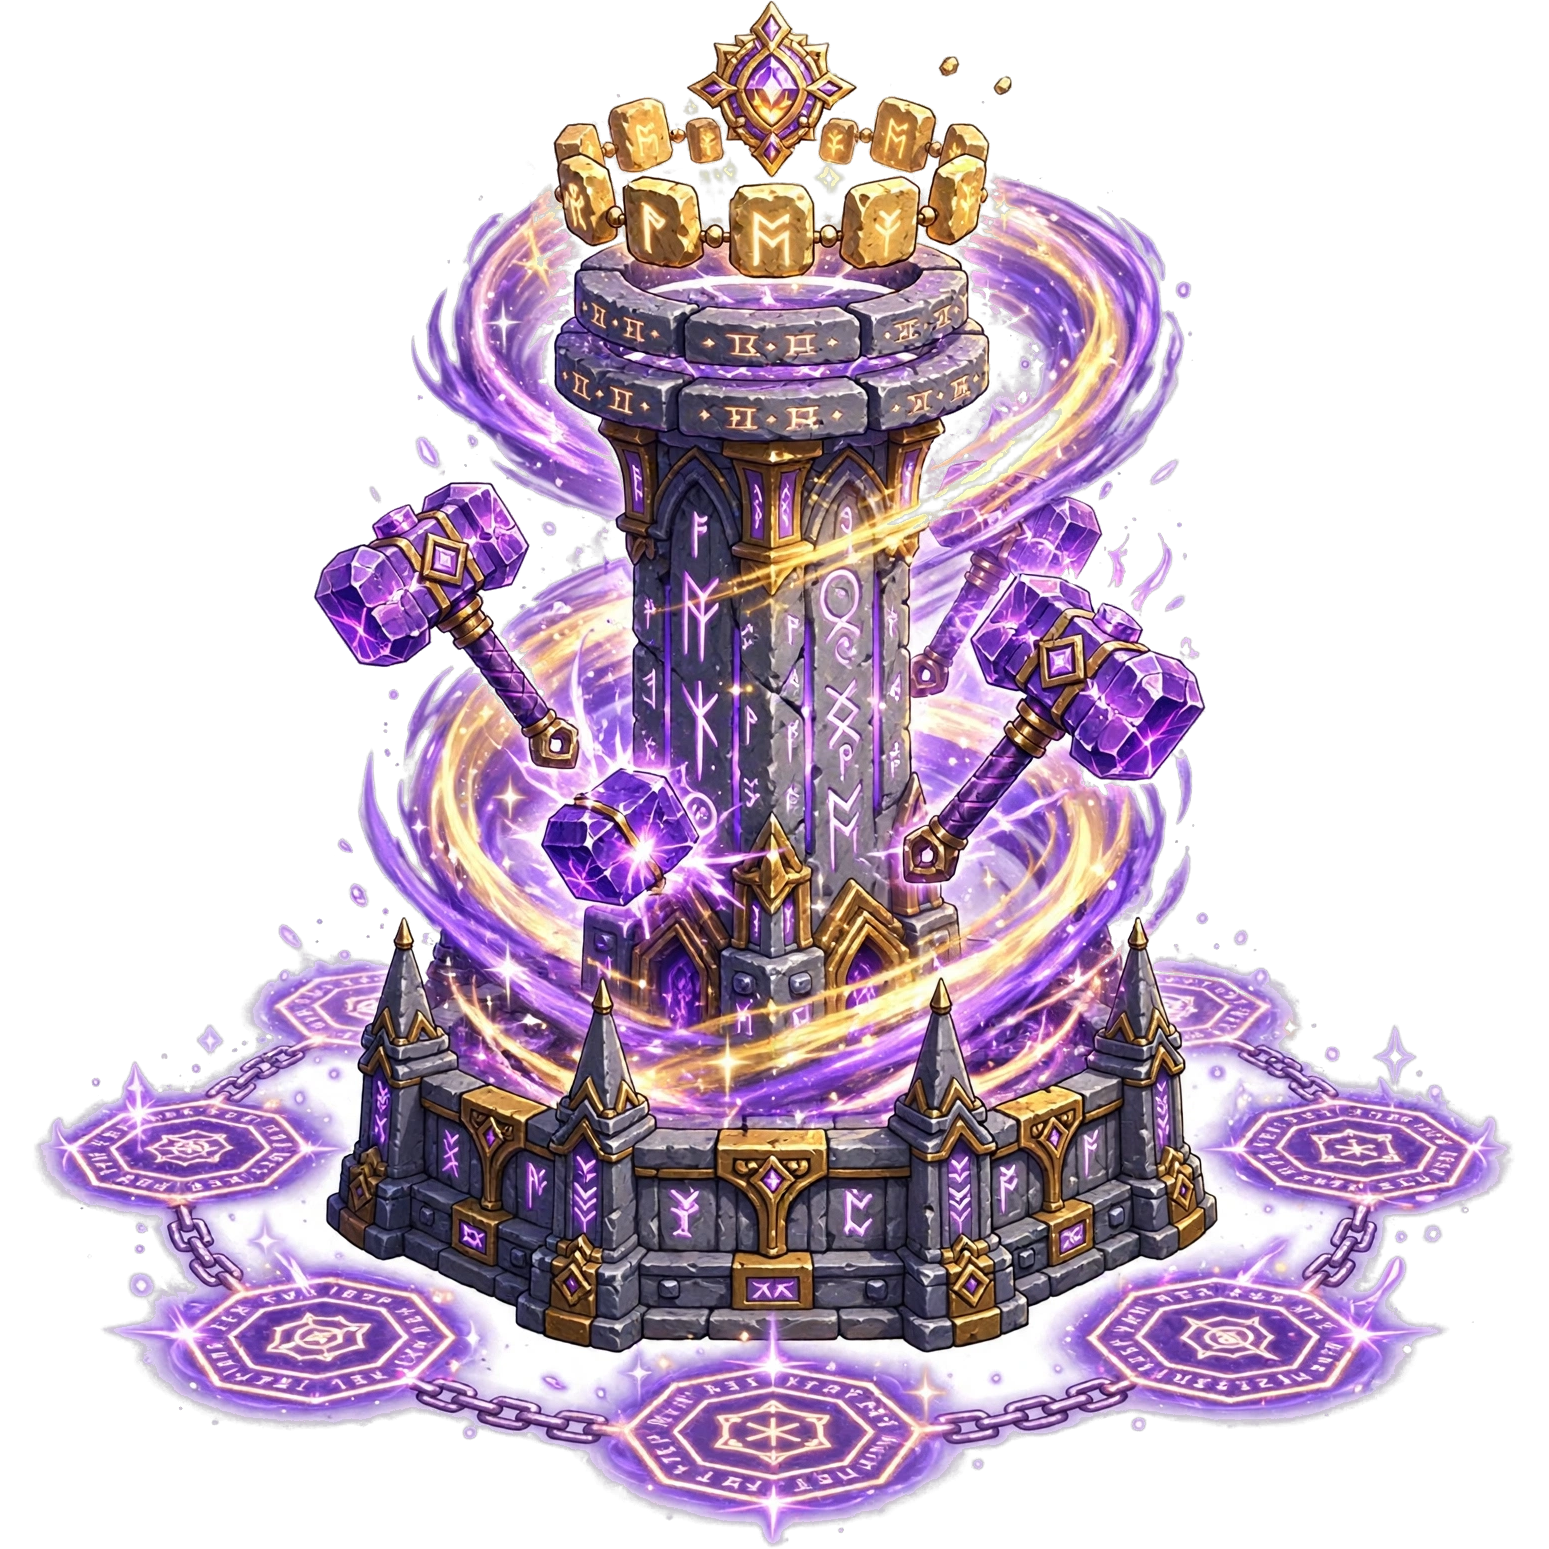
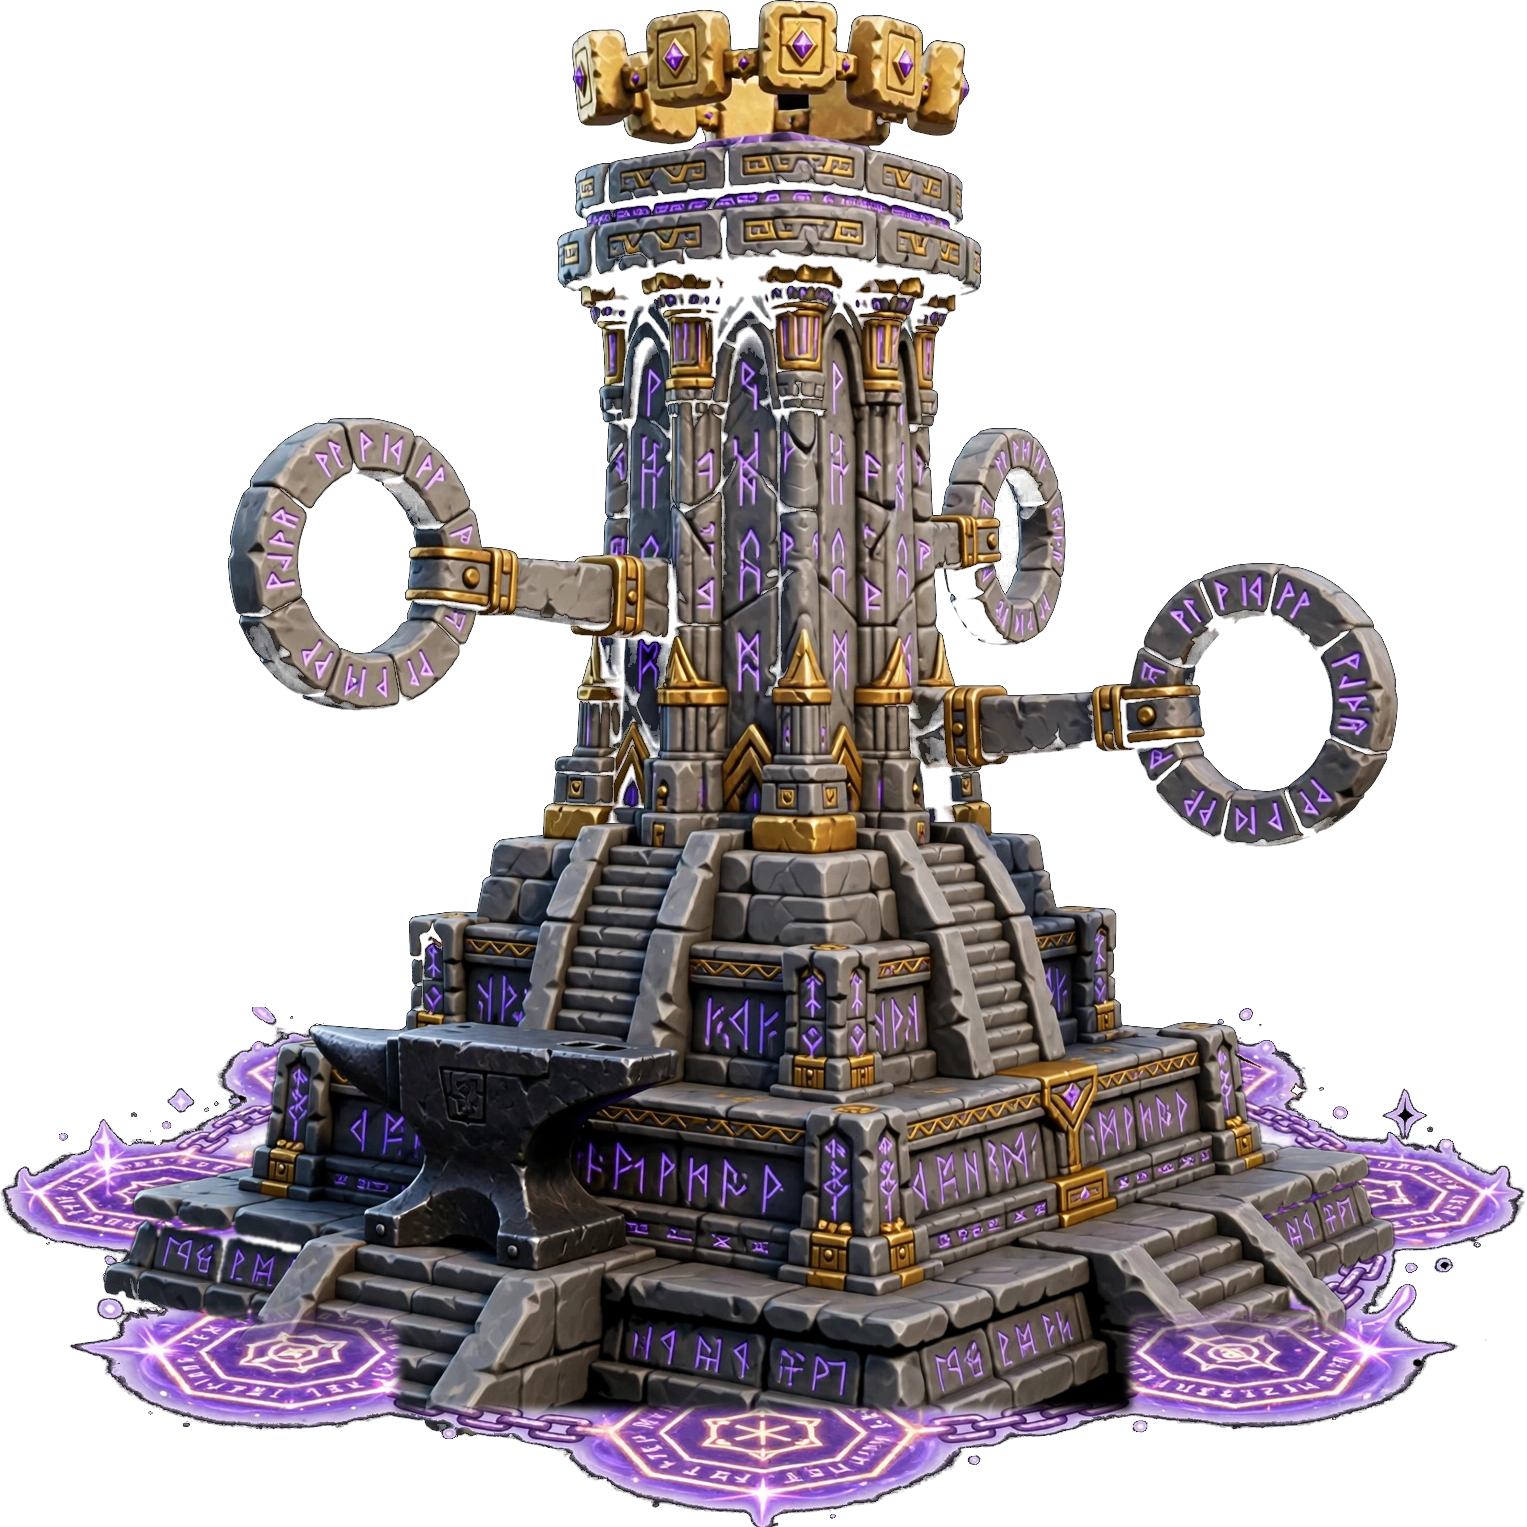
Ascended swap: Archrunesmith (rune) — ziggurat art with the old art's purple ground rune ring; muzzle unchanged [0,-73] (crown core), ascended width fraction re-measured 0.9727 -> 1.0, display size unchanged

diff --git a/tests/browser/runesmith-muzzles.spec.js b/tests/browser/runesmith-muzzles.spec.js
@@ -37,10 +37,11 @@ mkdirSync(QA, { recursive: true });
 
 // Phase 1 grounded values (measurements.json), [dx, dy] at the
 // 80px reference render. The ascended entry is grounded on the
-// CURRENT ascended art (the temple core, [0, -73]) — the staged
-// replacement art (The Archrunesmith) is held out pending the
-// owner's call; its muzzle is the same value ([0, -73]), so
-// nothing here would change if he approves the swap.
+// ascended art ([0, -73]) — originally the temple core of the
+// first Archrunesmith; the art was SWAPPED 2026-10-22 (owner
+// approved the ziggurat replacement with the old art's purple
+// ground rune ring) and the same value lands on the new art's
+// crown core, so the swap changed art only.
 const EXPECTED = {
   "0-0-0": [0, -67], "0-0-1": [0, -70], "0-0-2": [0, -68],
   "0-0-3": [0, -67], "0-1-0": [0, -66], "0-1-1": [0, -67],
@@ -324,7 +325,7 @@ test("rune shots leave from each state's own muzzle", async ({ page }) => {
   expect(errors).toEqual([]);
 });
 
-test("ascended runesmith fires from the temple core of its current art", async ({
+test("ascended runesmith fires from the crown core of its swapped-in art", async ({
   page,
 }) => {
   test.setTimeout(180000);
@@ -338,10 +339,9 @@ test("ascended runesmith fires from the temple core of its current art", async (
 
   const built = await page.evaluate(() => window.__proof.buildAscended());
   const origin = await fireAndCapture(page, built);
-  // The ascended is grounded on the CURRENT Archrunesmith art
-  // ([0, -73], the temple core); the replacement art is the
-  // owner's call and stays out — and its muzzle is the same
-  // value, so this proof survives the swap either way.
+  // The ascended is grounded on the swapped-in Archrunesmith
+  // art ([0, -73], the crown core of the ziggurat; the value
+  // is unchanged from the original art's temple core).
   const want = towerMuzzle({
     type: "rune",
     x: built.x,

diff --git a/src/data/towers.js b/src/data/towers.js
@@ -1133,11 +1133,13 @@ export const STATE_MUZZLES = {
   // energy rings became solid interlocking stone rings
   // ([0, -62]), and 3-1-0's glow sunburst corona became a
   // thick bracketed stone ring crown ([0, -68]). The ascended
-  // entry is grounded on the CURRENT ascended art ([0, -73],
-  // the temple core) — a staged replacement artwork (The
-  // Archrunesmith) exists but is held out pending the owner's
-  // call; its muzzle is the same value ([0, -73]), so a future
-  // swap changes art only.
+  // entry is grounded on the ascended art ([0, -73], the
+  // temple core of the original Archrunesmith).
+  // SWAPPED 2026-10-22: the owner approved the staged
+  // replacement (the ziggurat Archrunesmith with the old art's
+  // purple ground rune ring composited in); the ascended entry
+  // is unchanged ([0, -73]) — on the new art the same point is
+  // the crown core, so the swap changed art only.
   rune: {
     "0-0-0": [0, -67],
     "0-0-1": [0, -70],
